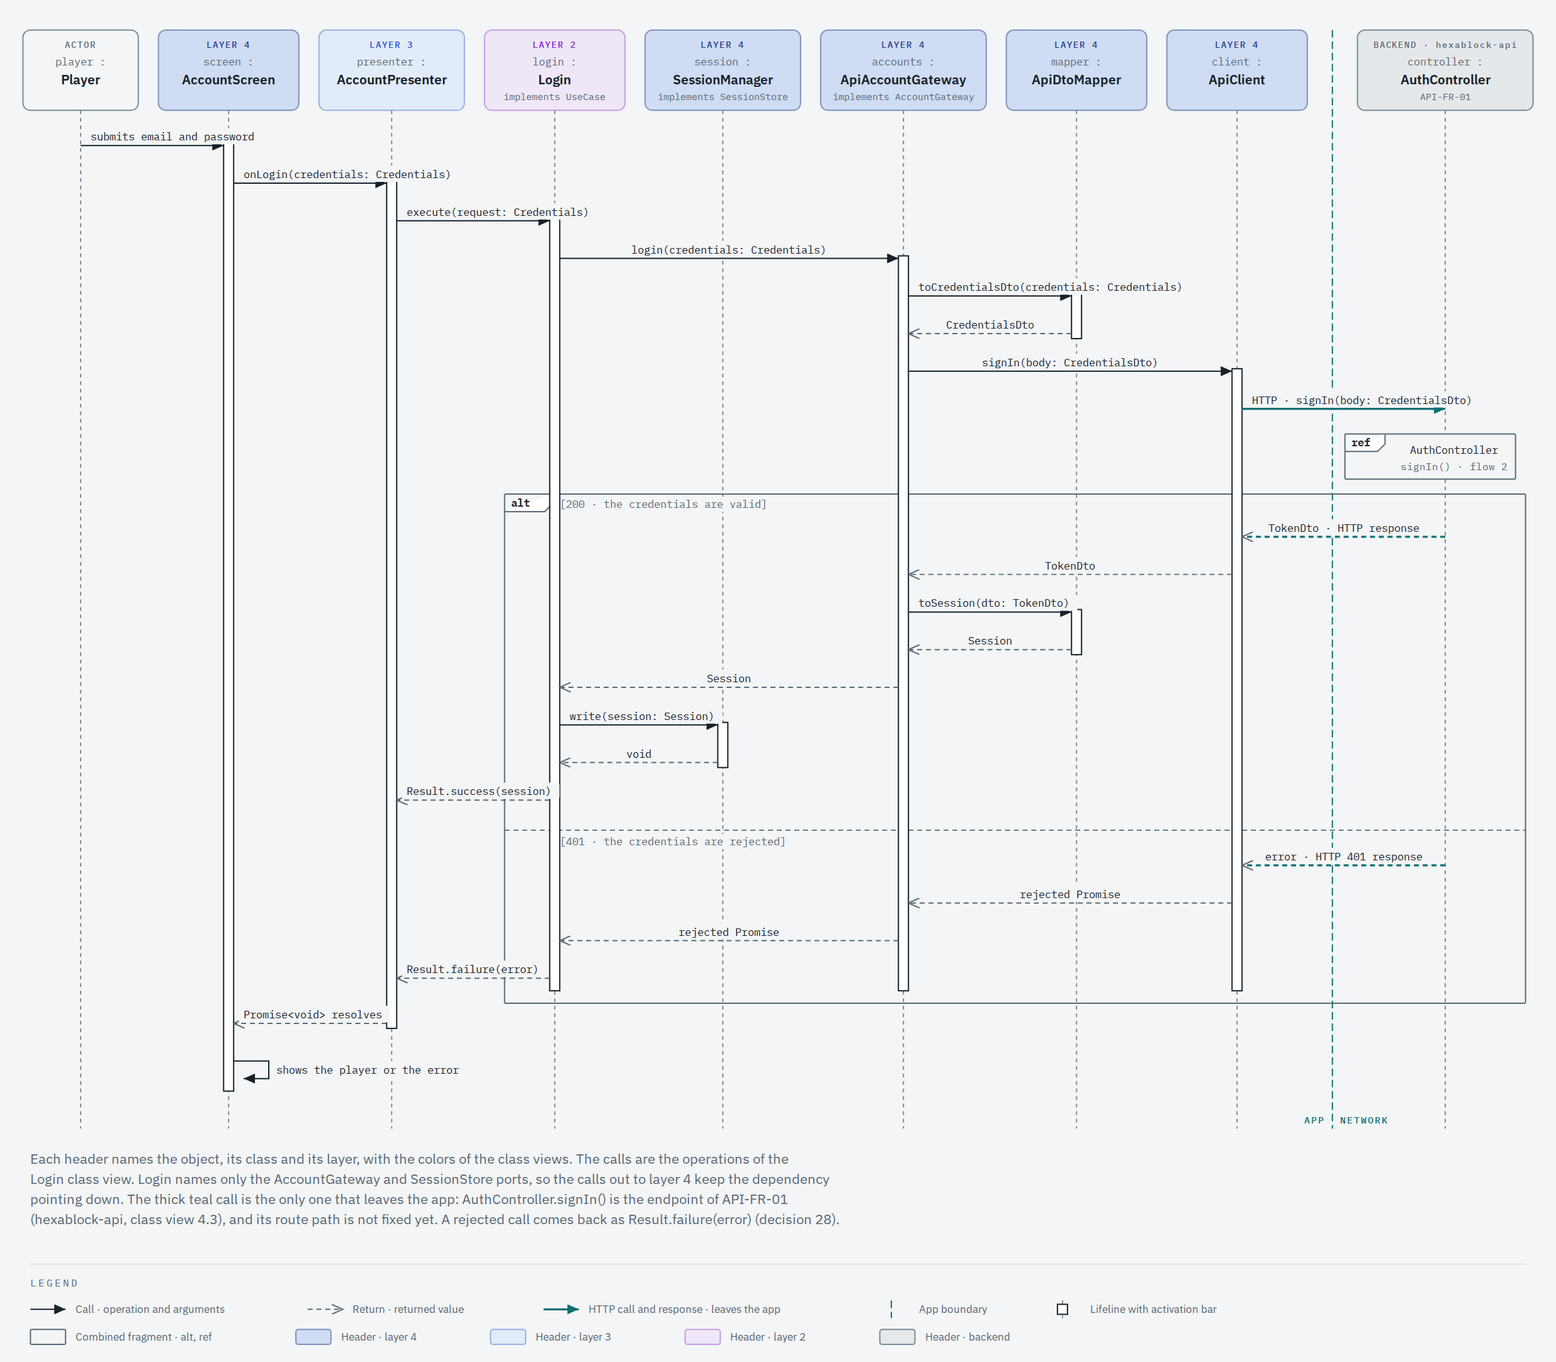
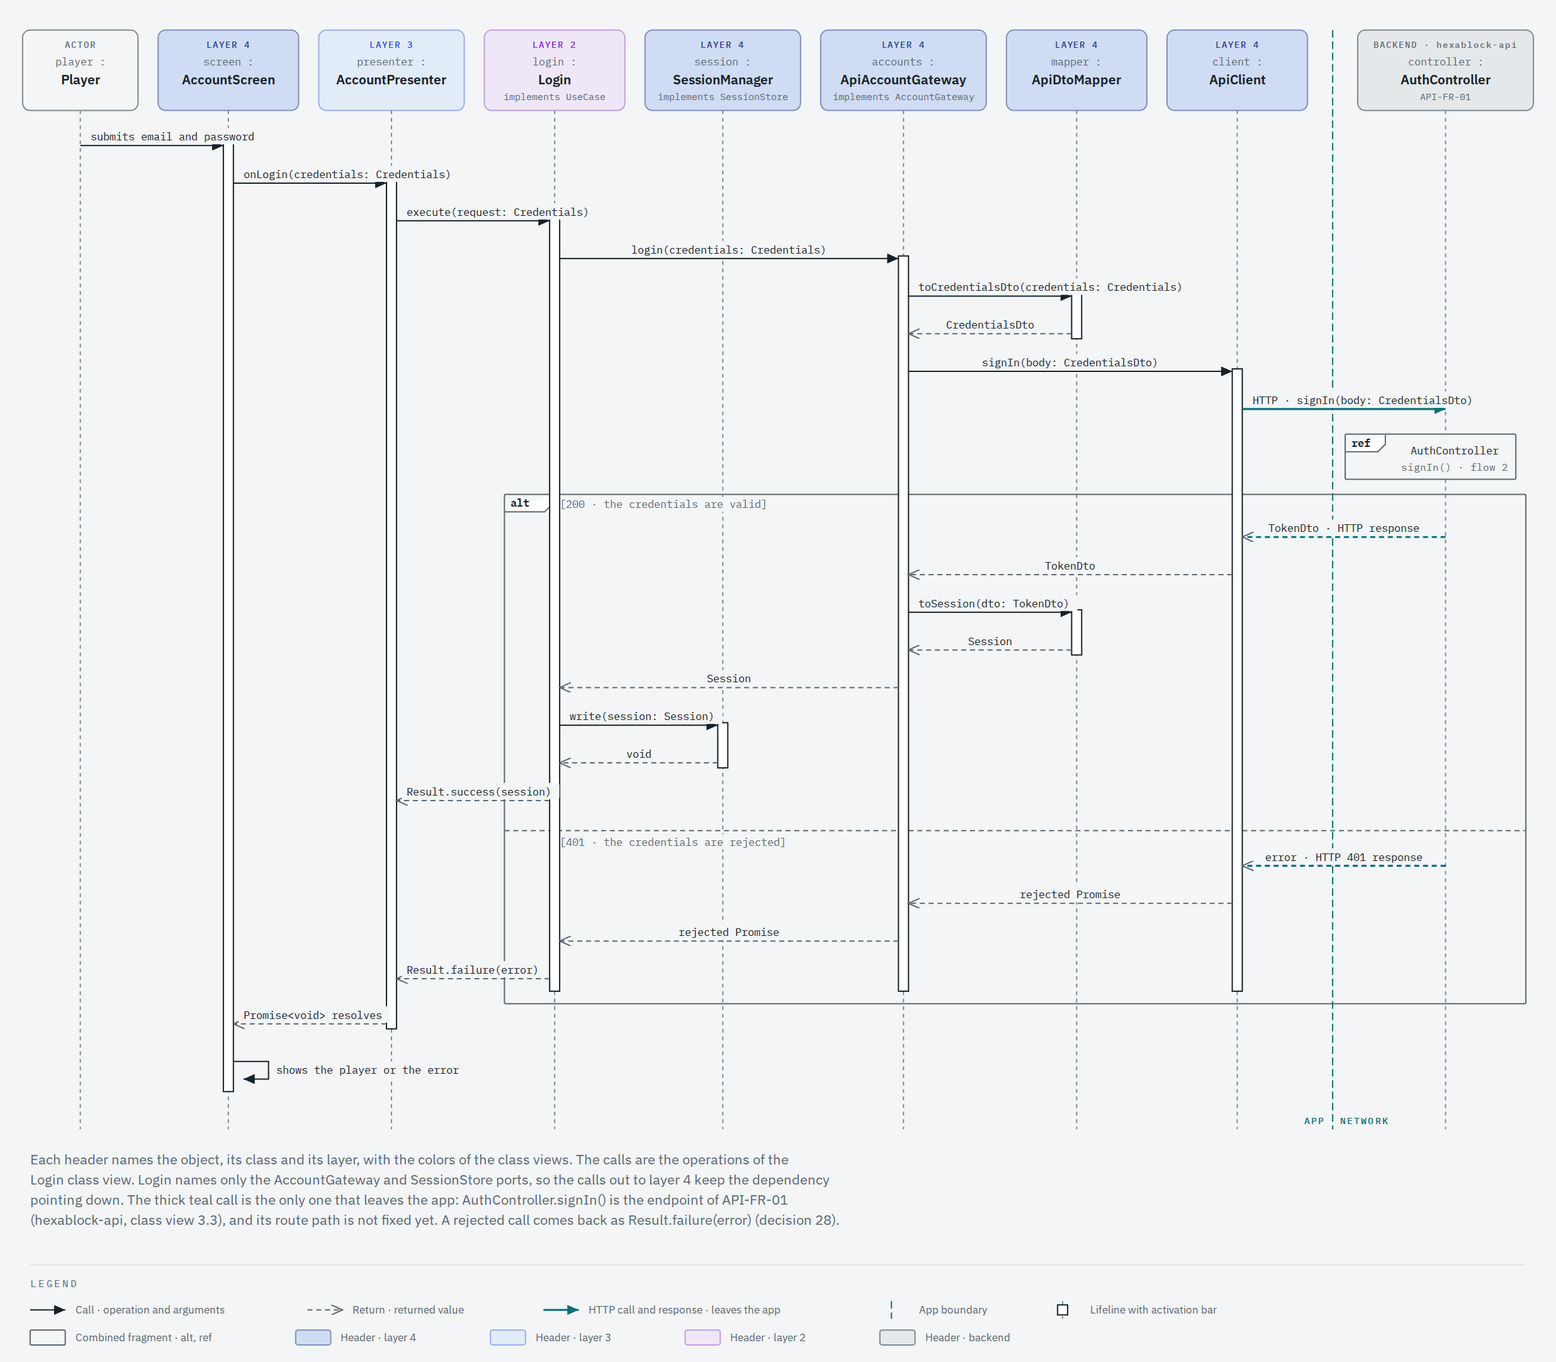
docs(requirements): record the answers of the session of 2026-11-03
C3 and C7 confirm A3 and A5. Q4 keeps the level update behind the token
guard, with no roles. Gravity is not an axis. APP-NFR-10 names Clean plus
an architecture for games, for every layer.

Flow 5 and seq-5 cite view 3.3 of the API class diagram, not view 4.3.

The roadmap rows of APP-NFR-19 and API-NFR-10 now repeat the current checks.

diff --git a/docs/architecture/flows/views/seq-5-login.html b/docs/architecture/flows/views/seq-5-login.html
@@ -1343,7 +1343,7 @@
           font-size="11"
           font-family="'IBM Plex Sans', sans-serif"
         >
-          (hexablock-api, class view 4.3), and its route path is not fixed yet. A rejected call
+          (hexablock-api, class view 3.3), and its route path is not fixed yet. A rejected call
           comes back as Result.failure(error) (decision 28).
         </text>
         <!-- Legend -->

diff --git a/docs/REQUIREMENTS.md b/docs/REQUIREMENTS.md
@@ -44,7 +44,7 @@ Sections: Lines §1.1, Fit §1.2, Sort §1.3, Merge §1.4, comparison §1.5.
 
 - **APP-NFR-08 — SOLID (§3.2).** Every principle used is documented in the README with a concrete example from our code. The engine has no conditionals on the variant type (LSP). Undo, timing and seeded randomness are separate interfaces, so Hexa Lines does not implement undo (ISP). _Check:_ the README section "SOLID Principles" has one example per principle with a link to its file, and the engine has no `if` or `switch` on the game id.
 - **APP-NFR-09 — GoF patterns (§3.3).** Strategy and Abstract Factory (one factory per variant) are mandatory. The statement also lists Builder, Singleton or single-scope injection, Prototype, Composite, Decorator, Adapter, Facade, Observer, Command, State, Template Method and Iterator. Each pattern used has a justification, a code excerpt and a README entry. See D7. _Check:_ the README section "Design Patterns" lists each pattern used with its justification and a link to its file, and Strategy and Abstract Factory are in it.
-- **APP-NFR-10 — Clean Architecture (§3.4).** Four layers with dependencies pointing inward. The whole generic engine and the variant rules live in the entities layer with no external dependency. Use cases are generic, never one copy per game. A layer diagram is an image in the README and an editable source in the repo. _Check:_ `pnpm arch` passes, and [`architecture/layers.md`](architecture/layers.md) holds the layer diagram.
+- **APP-NFR-10 — Clean Architecture (§3.4).** Four layers with dependencies pointing inward. The whole generic engine and the variant rules live in the entities layer with no external dependency. Use cases are generic, never one copy per game. A layer diagram is an image in the README and an editable source in the repo. In the session of 2026-11-03 the professor named the valid hybrid: Clean plus an architecture made for games, not Hexagonal plus Clean: «no, no, entre hexagonal y clean, perdón, entre clean y alguna arquitectura particular para juegos». A layered architecture that is not Clean is also valid when the team cites its reference and documents it. Every part of the app follows the layers, the presentation layer included: «la arquitectura a todo nivel de tu aplicación». Each layer has a defined meaning and keeps the dependency rule. _Check:_ `pnpm arch` passes, and [`architecture/layers.md`](architecture/layers.md) holds the layer diagram.
 - **APP-NFR-11 — AOP (§3.5).** At least one cross-cutting aspect (logging, centralized errors with retry, profiling, authorization or caching), built as decorators or proxies over the use cases. One aspect on the generic use case covers all four variants. See A2. _Check:_ a test shows that one aspect runs for the four variants, and the use case it wraps has no line of the aspect's code.
 
 ## 4. Tests (non-functional, §3.6)
@@ -124,16 +124,18 @@ Every abstraction needs a written reason, and there are two kinds. A declared ch
 | Sort piece source                                                                                      | §1.3, §1.5 vs §5.1.5                                                                                 | Piece source chosen per level (A4)                                                                                                                            |
 | Level origin                                                                                           | §5.1.5 vs §5.2.4                                                                                     | Level repository with bundled files and backend (A6)                                                                                                          |
 
+Not an axis: gravity. Hexa Lines has no gravity (§1.1: «No hay gravedad»). In the session of 2026-11-03 the professor said that this rule never changes: «eso considero un requerimiento ahí que no va a cambiar». So no seam for gravity exists, in any variant.
+
 ## 9. Assumptions
 
 Each assumption holds under both readings of the statement, or names what changes if the answer differs.
 
 - **A1 — Merge cell (§3.1).** The statement says the Merge cell is an integer and also that it carries a mergeable bound. A primitive integer cannot implement an interface, so the Merge cell is a value object that wraps an integer and implements the bound. It satisfies both sentences; the statement calls its names "orientativos". Confirmation C2.
 - **A2 — Aspects (§3.5).** Aspects are our own decorators or proxies over the generic use case, not a library or framework interceptor. This holds whether libraries are allowed or not. Confirmation C5.
-- **A3 — End of Merge (§1.4, §5.1.4).** Reaching the target tile is an event, not the end of the game; an end policy decides. Default: a victory screen with a "continue" option, as in 2048. Confirmation C3.
+- **A3 — End of Merge (§1.4, §5.1.4).** Reaching the target tile is an event, not the end of the game; an end policy decides. Default: a victory screen with a "continue" option, as in 2048. Confirmation C3. Confirmed on 2026-11-03: the player may continue to get more points (C3).
 - **A4 — Sort pieces (§1.3, §1.5, §5.1.5).** Each Sort level chooses its piece source: seeded random or a fixed list. Default: seeded random per level, so a level is reproducible and can be designed. Confirmation C4.
-- **A5 — Fit levels can be won (§1.2, §5.2.4).** The Fit illustration shows a figure of 21 cells and pieces of 20, against the rule that both areas are equal. We read it as a hint: every Fit level must be provably winnable. Equal area is necessary but not enough, and finding an exact cover is a search problem. So every level file carries the designer's solution (piece, rotation, position). The rotation counts steps of the level's topology, never degrees: the hexagonal topology has six steps of 60°, and another topology gives its own steps (D4). Checking that witness is linear. The Fit Builder checks area and witness when a level loads, a CI test checks every bundled level, and the backend rejects a level whose witness fails. A search tool only helps level designers. Pieces rotate; they are never mirrored (§1.2 mentions rotation only). Confirmations C1 and C7.
-- **A6 — Level origin (§5.1.5, §5.2.4).** Levels bundled in the app always work offline; levels from the backend add to them or replace them. Who may edit levels is Q4.
+- **A5 — Fit levels can be won (§1.2, §5.2.4).** The Fit illustration shows a figure of 21 cells and pieces of 20, against the rule that both areas are equal. We read it as a hint: every Fit level must be provably winnable. Equal area is necessary but not enough, and finding an exact cover is a search problem. So every level file carries the designer's solution (piece, rotation, position). The rotation counts steps of the level's topology, never degrees: the hexagonal topology has six steps of 60°, and another topology gives its own steps (D4). Checking that witness is linear. The Fit Builder checks area and witness when a level loads, a CI test checks every bundled level, and the backend rejects a level whose witness fails. A search tool only helps level designers. Pieces rotate; they are never mirrored (§1.2 mentions rotation only). Confirmations C1 and C7. The rotation rule is confirmed on 2026-11-03 (C7).
+- **A6 — Level origin (§5.1.5, §5.2.4).** Levels bundled in the app always work offline; levels from the backend add to them or replace them. Who may edit levels is Q4, answered on 2026-11-03.
 - **A7 — Public repositories (§2, §9).** Both repositories are public, because GitHub Free protects branches only on public repositories. Confirmation C6.
 - **A8 — Delivery date.** We plan against the earliest date, 2026-12-07. See Q1.
 - **A9 — Backend scope (§6.1).** Replaced by D6 on 2026-10-26.
@@ -178,7 +180,7 @@ Real questions (they change the plan):
 - **Q1:** The statement sets delivery on Monday 2026-12-14, and the class plan sets the final project delivery on 2026-12-07 and 2026-12-11, with grades on 2026-12-14. Which date and time is the deadline?
 - **Q2:** Closed by the team on 2026-10-26: the backend meets the same standards (D6).
 - **Q3:** Closed by the team on 2026-10-26: the patterns the design needs, each justified (D7).
-- **Q4:** Who may update level definitions in the backend? The statement asks only for sign-up and sign-in, with no roles.
+- **Q4:** Who may update level definitions in the backend? The statement asks only for sign-up and sign-in, with no roles. Answered 2026-11-03: the professor does not ask for a level editor or an admin: «Yo no voy a pedir». He asks only for several levels of rising difficulty. The team read this answer on 2026-11-04: the level update endpoint keeps the token guard only, with no roles (API-FR-04).
 - **Q5:** Closed by the team on 2026-10-26: three games are the minimum, and we deliver four (D8).
 - **Q6:** Closed on 2026-10-26: the team is already set, with three members.
 
@@ -195,8 +197,8 @@ Confirmations (we already work under an assumption):
 
 - **C1:** The Fit illustration has 21 cells and 20 of pieces. Do you expect the system to check that a level can be won? (A5)
 - **C2:** Is a value object that wraps an integer acceptable as the Merge cell? (A1)
-- **C3:** Does Merge end when the target tile appears, or may the player continue? (A3)
+- **C3:** Does Merge end when the target tile appears, or may the player continue? (A3) Answered 2026-11-03: the player may continue: «Yo podría que se pueda seguir jugando para tener más puntos». A3 holds.
 - **C4:** Are Sort trays random with a seed per level, or fixed in the level? (A4)
 - **C5:** Is an AOP library allowed, or must the aspect be our own decorator? (A2)
 - **C6:** Are public repositories acceptable? (A7)
-- **C7:** May Fit pieces be mirrored, or only rotated? (A5)
+- **C7:** May Fit pieces be mirrored, or only rotated? (A5) Answered 2026-11-03: only rotated: «No, no, giros, puedes usar giro». A5 holds. The question named turns of 90°; A5 keeps the rule that the topology of the level gives the rotation step (60° on hexagons).

diff --git a/docs/ROADMAP.md b/docs/ROADMAP.md
@@ -133,20 +133,20 @@ The screens, from home to victory and defeat, in Spanish and English from the fi
 
 The app signs in, syncs progress, shows the leaderboards and takes levels from the backend, against the endpoints of sprints 1 to 3. All hand-made levels and the sound. The forum of 2026-11-29 is answered with the project app, so the architecture documents of both repositories are finished in this sprint.
 
-| ID         | Exit check                                                                                                                                                                                                               |
-| ---------- | ------------------------------------------------------------------------------------------------------------------------------------------------------------------------------------------------------------------------ |
-| APP-FR-12  | After sign-in, a sync request carries the token.                                                                                                                                                                         |
-| APP-FR-13  | Progress saved in the app appears in the backend entry for that user and `gameId`.                                                                                                                                       |
-| APP-FR-14  | A UI test shows both leaderboards from a stubbed API.                                                                                                                                                                    |
-| APP-FR-15  | With the network off, every bundled level opens.                                                                                                                                                                         |
-| APP-FR-05  | A CI test counts the bundled level files and checks every Fit level against A5.                                                                                                                                          |
-| APP-FR-10  | The mute option silences both the effects and the music.                                                                                                                                                                 |
-| APP-NFR-09 | The README section "Design Patterns" lists each pattern used with its justification and a link to its file, and Strategy and Abstract Factory are in it.                                                                 |
-| APP-NFR-19 | The README embeds the three images; [`architecture/layers.md`](architecture/layers.md) and [`architecture/classes.md`](architecture/classes.md) hold two of the sources, and the extensibility diagram is still to draw. |
-| API-NFR-09 | The README section "Design Patterns" lists each pattern used with its justification and a link to its file.                                                                                                              |
-| API-NFR-10 | `architecture/layers.md` holds the layer diagram; the class diagram and `docs/EXTENSIBILITY.md` are still to write.                                                                                                      |
+| ID         | Exit check                                                                                                                                                                                                                                |
+| ---------- | ----------------------------------------------------------------------------------------------------------------------------------------------------------------------------------------------------------------------------------------- |
+| APP-FR-12  | After sign-in, a sync request carries the token.                                                                                                                                                                                          |
+| APP-FR-13  | Progress saved in the app appears in the backend entry for that user and `gameId`.                                                                                                                                                        |
+| APP-FR-14  | A UI test shows both leaderboards from a stubbed API.                                                                                                                                                                                     |
+| APP-FR-15  | With the network off, every bundled level opens.                                                                                                                                                                                          |
+| APP-FR-05  | A CI test counts the bundled level files and checks every Fit level against A5.                                                                                                                                                           |
+| APP-FR-10  | The mute option silences both the effects and the music.                                                                                                                                                                                  |
+| APP-NFR-09 | The README section "Design Patterns" lists each pattern used with its justification and a link to its file, and Strategy and Abstract Factory are in it.                                                                                  |
+| APP-NFR-19 | The README embeds the three images; [`architecture/layers.md`](architecture/layers.md), [`architecture/classes.md`](architecture/classes.md) and [`architecture/extensibility.md`](architecture/extensibility.md) hold the three sources. |
+| API-NFR-09 | The README section "Design Patterns" lists each pattern used with its justification and a link to its file.                                                                                                                               |
+| API-NFR-10 | `architecture/layers.md`, `architecture/classes.md` and `architecture/extensibility.md` hold the layer, class and extensibility diagrams; `docs/EXTENSIBILITY.md` is still to write.                                                      |
 
-The _Check_ of APP-NFR-19 and of API-NFR-10 still says that a diagram or a document is to draw or write. App pull request 15 and backend pull request 9 add them. When those pull requests merge, their _Check_ text changes, and this table follows it.
+App pull request 15 and backend pull request 9 added the three diagrams of each repository. Only `docs/EXTENSIBILITY.md` of the backend is still to write, and its _Check_ says so.
 
 ## Sprint 5 — Delivery (2026-11-30 to 2026-12-06), tag `v1.0.0`
 

diff --git a/docs/architecture/flows.md b/docs/architecture/flows.md
@@ -127,7 +127,7 @@ Each other use case follows the path of one flow above. Its own classes are in t
 - The route path of `ProgressController.sync()` waits on the OpenAPI export of the endpoint.
 - Flow 3: `GamePresenter.startGame`, `GamePresenter.onStart(request: StartGameRequest)` and `StartGameRequest.levelId` are planned members. No view says yet how the level definition reaches the level builder, so the sequence diagram draws that step as a `ref` box.
 - Flow 4: `GamePresenter.undoMove` and `GamePresenter.onUndo()` are planned members. `MoveHistory.undo()` returns `void`, and decision 34 says that `undo()` gives the kept state back to the engine. No view names the member through which `GameEngine` takes that state back.
-- Flow 5: `AccountPresenter.login`, `AccountPresenter.onLogin(credentials: Credentials)`, the `client` and `mapper` attributes of `ApiAccountGateway`, `ApiDtoMapper.toCredentialsDto()`, `ApiDtoMapper.toSession()` and `ApiClient.signIn()` are planned members. No view gives `Credentials` a member. The endpoint name follows view 4.3 of the API class diagram: `AuthController.signIn(body: CredentialsDto): Promise<TokenDto>`. The answer to a rejected sign-in, a rejected `Promise` that `Login` turns into `Result.failure(error)`, is an assumption for team review.
+- Flow 5: `AccountPresenter.login`, `AccountPresenter.onLogin(credentials: Credentials)`, the `client` and `mapper` attributes of `ApiAccountGateway`, `ApiDtoMapper.toCredentialsDto()`, `ApiDtoMapper.toSession()` and `ApiClient.signIn()` are planned members. No view gives `Credentials` a member. The endpoint name follows view 3.3 of the API class diagram: `AuthController.signIn(body: CredentialsDto): Promise<TokenDto>`. The answer to a rejected sign-in, a rejected `Promise` that `Login` turns into `Result.failure(error)`, is an assumption for team review.
 
 ## Render the images
 

diff --git a/CHANGELOG.md b/CHANGELOG.md
@@ -22,6 +22,7 @@ Each sprint of [`docs/ROADMAP.md`](docs/ROADMAP.md) closes with a version sectio
 
 ### Changed
 
+- `docs/REQUIREMENTS.md` records the answers of the session of 2026-11-03: C3 and C7 confirm A3 and A5, Q4 keeps the level update behind the token guard with no roles, gravity is not an axis, and APP-NFR-10 names Clean plus an architecture for games for every layer. Flow 5 and its sequence diagram cite view 3.3 of the API class diagram, not view 4.3 ([#63](https://github.com/Hexablock-Suite/hexablock-app/pull/63)).
 - The engine, use case and adapter maps and extensibility views 1 and 3 draw no line on a dashed frame or a package: each line joins the two classes that depend, with a role and a multiplicity or a verb, and the reading notes say why, after the session of 2026-11-03 ([#63](https://github.com/Hexablock-Suite/hexablock-app/pull/63)).
 - The class and extensibility views keep a diamond only where it makes a GoF pattern visible: `Board` with its `BoardShape` and `Piece` with its `ShapeNode` become use arrows, the legends say «in-layer pattern», and the notation texts and decision 23 drop the domain relation exception ([#63](https://github.com/Hexablock-Suite/hexablock-app/pull/63)).
 - The use case and adapter maps label the uses between groups with a verb, not with a role and a multiplicity ([#63](https://github.com/Hexablock-Suite/hexablock-app/pull/63)).
